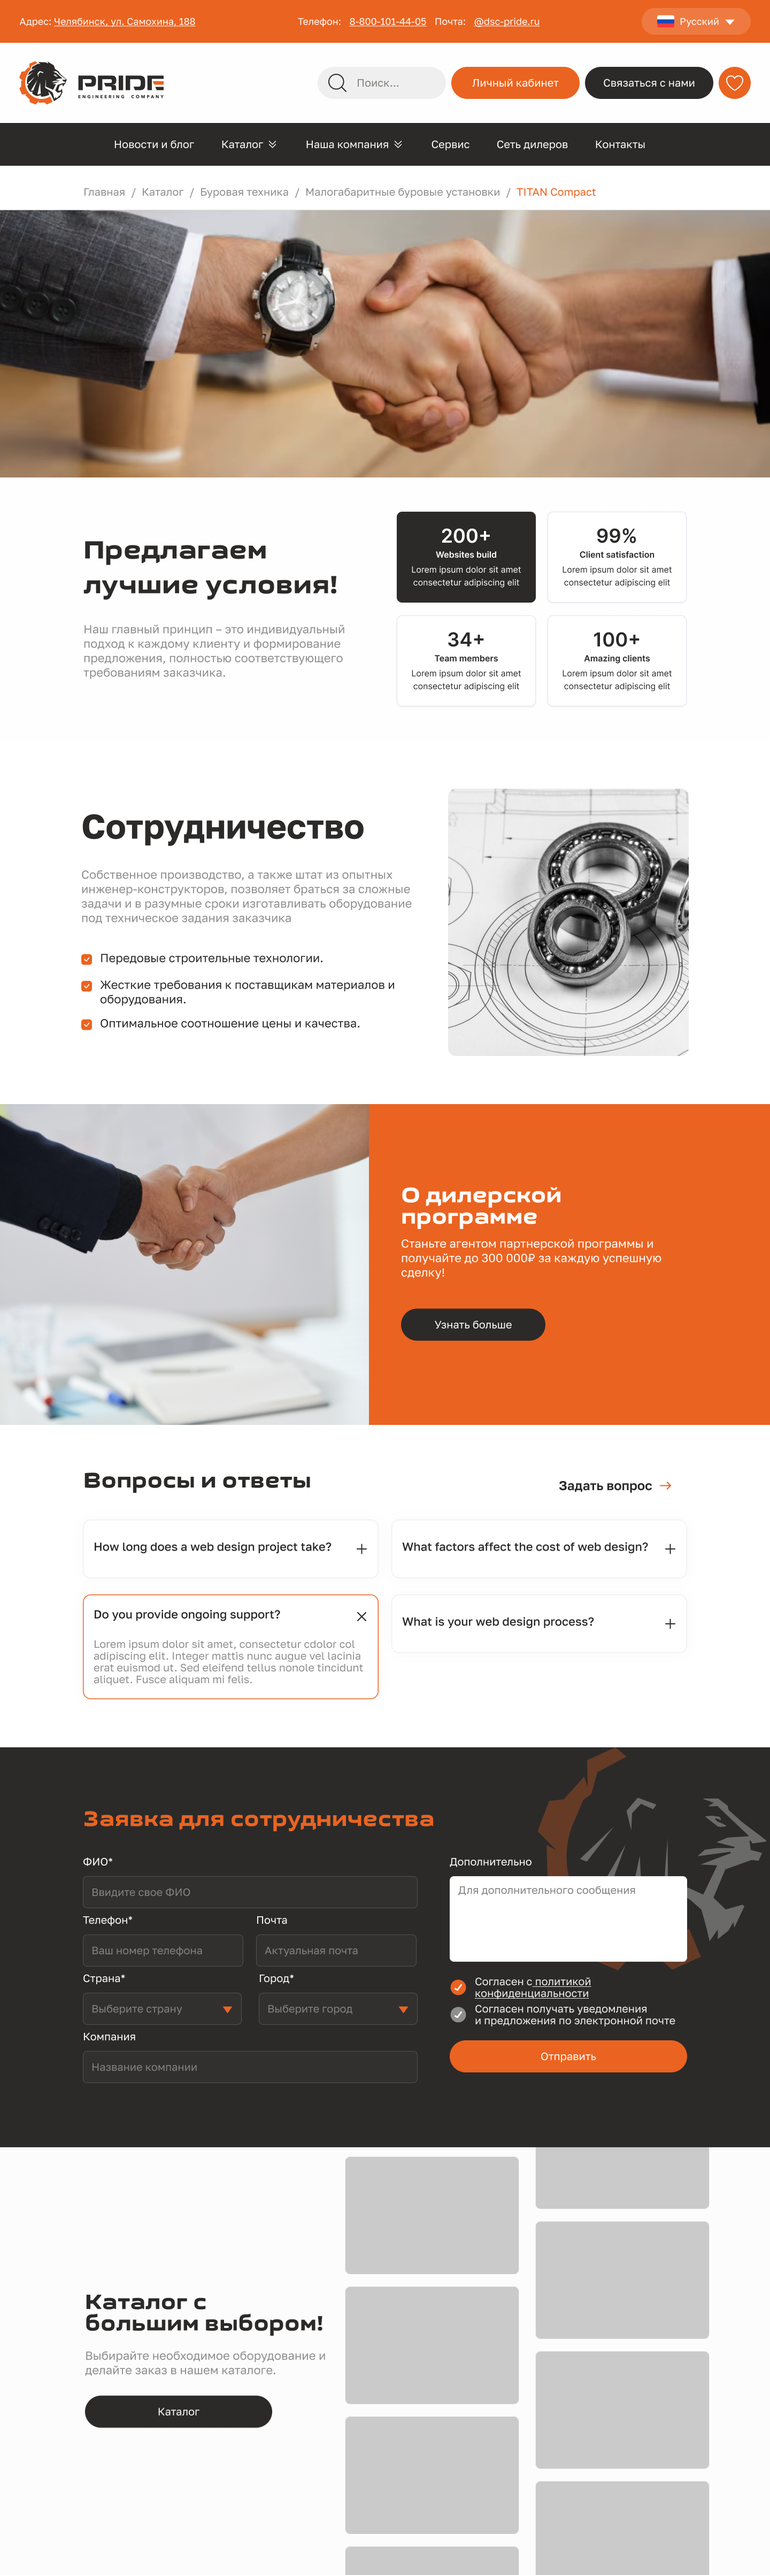
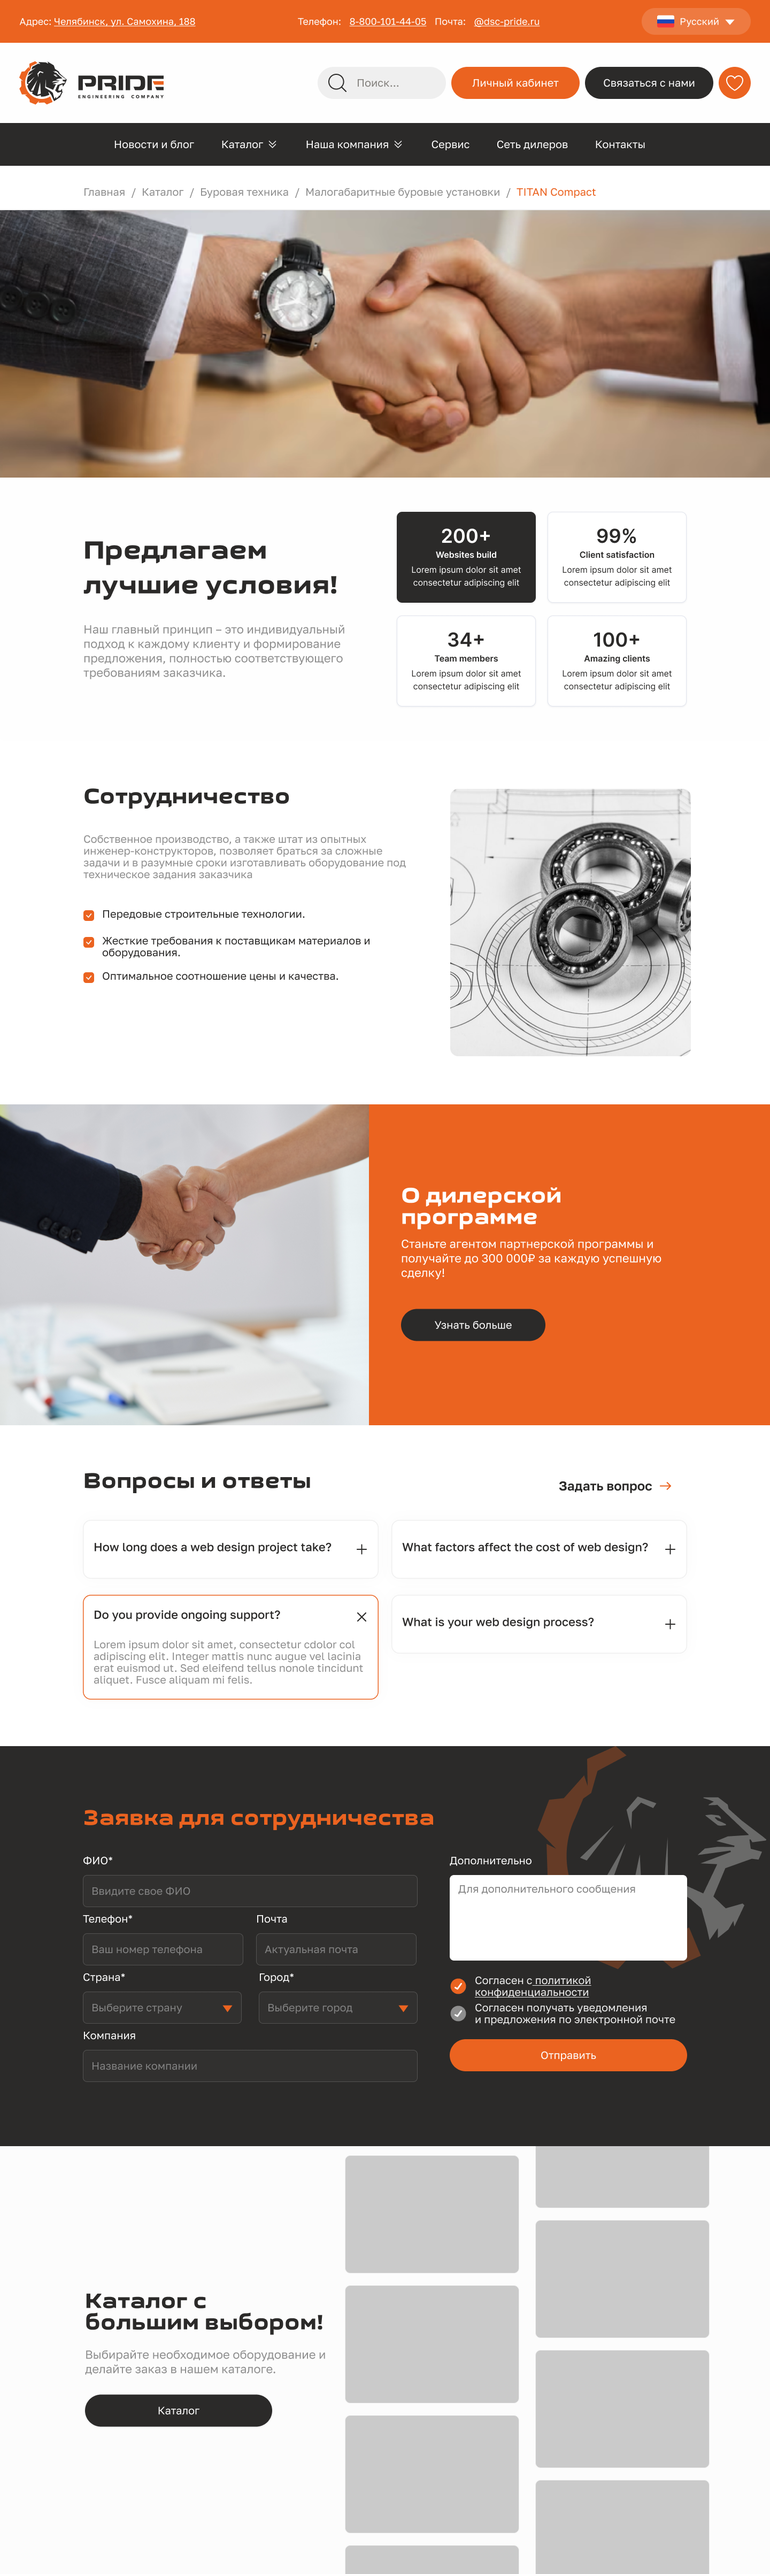
fixed cooperation-page html pixel

diff --git a/style/cooperation-page.css b/style/cooperation-page.css
@@ -37,7 +37,7 @@
 }
 
 .conditions-general__title {
-    margin-bottom: 6rem;
+    margin-bottom: 4rem;
 }
 
 .conditions-peculiarities {
@@ -56,7 +56,7 @@
 .conditions-peculiarities__item {
     border: 1px solid #e1e4ed;
     border-radius: 10px;
-    padding: 32px 24px;
+    padding: 3.2rem 2.4rem;
     box-shadow: 0 1px 4px 0 rgba(25, 33, 61, 0.08);
     background: #fff;
     display: flex;
@@ -77,7 +77,7 @@
     font-family: 'Inter Semi Bold', sans-serif;
     font-weight: 600;
     font-size: 3.6rem;
-    line-height: 1.11111;
+    line-height: 1;
     color: var(--dark-gray);
 }
 
@@ -93,7 +93,7 @@
     font-family: 'Inter Regular', sans-serif;
     font-weight: 400;
     font-size: 1.6rem;
-    line-height: 1.5;
+    line-height: 1.2;
     text-align: center;
     color: var(--dark-gray);
 }
@@ -111,7 +111,7 @@
 
 .cooperation-section__container {
     display: flex;
-    align-items: center;
+    align-items: flex-start;
     justify-content: space-between;
     column-gap: 1rem;
 }
@@ -123,7 +123,17 @@
 
 .cooperation-section__text-title,
 .cooperation-section__text-subtitle {
-    margin-bottom: 6rem;
+    margin-bottom: 4.5rem;
+}
+
+.cooperation-section__text-title {
+    font-size: 4rem;
+    line-height: 1;
+}
+
+.cooperation-section__text-subtitle {
+    font-size: 2rem;
+    line-height: 1.1;
 }
 
 .list {
@@ -140,7 +150,7 @@
     padding-left: 35px;
     font-weight: 400;
     font-size: 2.2rem;
-    line-height: 1.22727;
+    line-height: 1;
     color: var(--dark-gray);
     display: flex;
     align-items: center;
@@ -167,7 +177,7 @@
 .about-program {
     width: 100%;
     /*height: 60rem;*/
-    margin-bottom: 9rem;
+    margin-bottom: 8rem;
 }
 
 .about-program__container {
@@ -197,7 +207,9 @@
 
 .about-program__title {
     color: var(--main-bg);
-    margin-bottom: 3rem;
+    margin-bottom: 2rem;
+    font-size: 4rem;
+    line-height: 0.9;
 }
 
 .about-program__subtitle {
@@ -231,7 +243,7 @@
     display: flex;
     align-items: center;
     justify-content: space-between;
-    margin-bottom: 6rem;
+    margin-bottom: 4rem;
 }
 
 .questions-answers__title {
@@ -296,7 +308,7 @@
     min-height: 11rem;
     display: flex;
     position: relative;
-    padding: 4.3rem 2rem;
+    padding: 4rem 2rem;
     align-items: flex-start;
     justify-content: flex-start;
     transition: 0.3s ease-in;
@@ -324,7 +336,7 @@
     font-size: 20px;
     line-height: 1.1;
     color: var(--ligth-gray);
-    padding-top: 3rem;
+    padding-top: 2rem;
     opacity: 0;
     margin-top: -100%;
     transition: 0.1s ease-in opacity;
@@ -336,6 +348,7 @@
 /*}*/
 .questions-answers-tabs__item_click {
     border-color: var(--color-orange);
+    padding: 3rem 2rem;
     transition: 0.3s ease-in;
 }
 
@@ -356,7 +369,7 @@
     content: '';
     width: 2.3rem;
     height: 2.3rem;
-    right: 3rem;
+    right: 2rem;
     display: block;
     background: url("../images/cooperation/plus.svg") no-repeat center/cover;
 }
@@ -366,6 +379,14 @@
 /*}*/
 .questions-answers-tabs__item_click::after {
     transform: rotate(45deg);
+}
+
+.cooperation-banner-form-representation .form-representation__title {
+    font-size: 4rem;
+}
+
+.cooperation-banner-form-representation.form-representation {
+    padding-top: 11rem;
 }
 
 .big-catalog {
@@ -390,7 +411,7 @@
     max-width: 45.6rem;
     width: 100%;
     font-size: 4rem;
-    margin-bottom: 4rem;
+    margin-bottom: 2rem;
     line-height: 1;
 }
 
@@ -422,6 +443,7 @@
     display: flex;
     column-gap: 3rem;
     overflow: hidden;
+    margin-right: -4rem;
 }
 
 .big-catalog__images-vertical-line {
@@ -430,11 +452,11 @@
 }
 
 .big-catalog__images-vertical-line_left {
-    margin-top: 1.7rem;
+    margin-top: 2.1rem;
 }
 
 .big-catalog__images-vertical-line_right {
-    margin-top: -11rem;
+    margin-top: -10rem;
 }
 
 .big-catalog__images-list {

diff --git a/cooperation.html b/cooperation.html
@@ -765,9 +765,9 @@
             </div>
         </div>
     </section>
-    <section class="form-representation">
+    <section class="form-representation cooperation-banner-form-representation">
         <div class="container form-representation__container">
-            <h2 class="form-representation__title">Стать представителем PRIDE</h2>
+            <h2 class="form-representation__title">Заявка для сотрудничества</h2>
             <form class="form-representation__form">
                 <div class="form-left">
                     <label for="user-name">ФИО*</label>

diff --git a/catalog.html b/catalog.html
@@ -524,7 +524,7 @@
                             </ul>
                         </li>
                         <li class="header-menu-modal__body-top-item col2-2">
-                            <a href="#" class="header-menu-modal__body-top-link">
+                            <a href="cooperation.html" class="header-menu-modal__body-top-link">
                                 Сотрудничество
                             </a>
                             <ul>

diff --git a/menu-about.html b/menu-about.html
@@ -524,7 +524,7 @@
                             </ul>
                         </li>
                         <li class="header-menu-modal__body-top-item col2-2">
-                            <a href="#" class="header-menu-modal__body-top-link">
+                            <a href="cooperation.html" class="header-menu-modal__body-top-link">
                                 Сотрудничество
                             </a>
                             <ul>

diff --git a/product-cart.html b/product-cart.html
@@ -524,7 +524,7 @@
                             </ul>
                         </li>
                         <li class="header-menu-modal__body-top-item col2-2">
-                            <a href="#" class="header-menu-modal__body-top-link">
+                            <a href="cooperation.html" class="header-menu-modal__body-top-link">
                                 Сотрудничество
                             </a>
                             <ul>

diff --git a/stock.html b/stock.html
@@ -525,7 +525,7 @@
                             </ul>
                         </li>
                         <li class="header-menu-modal__body-top-item col2-2">
-                            <a href="#" class="header-menu-modal__body-top-link">
+                            <a href="cooperation.html" class="header-menu-modal__body-top-link">
                                 Сотрудничество
                             </a>
                             <ul>

diff --git a/index.html b/index.html
@@ -521,7 +521,7 @@
                   </ul>
                 </li>
                 <li class="header-menu-modal__body-top-item col2-2">
-                  <a href="#" class="header-menu-modal__body-top-link">
+                  <a href="cooperation.html" class="header-menu-modal__body-top-link">
                     Сотрудничество
                   </a>
                   <ul>

diff --git a/style/style.css b/style/style.css
@@ -2718,9 +2718,9 @@
   background: url('../images/catalog/arr_right_orange.svg') no-repeat
     center/cover;
 }
-
+/* 
 .our-projects__body {
-}
+} */
 
 .our-projects__contaiher-swiper {
   width: 100%;
